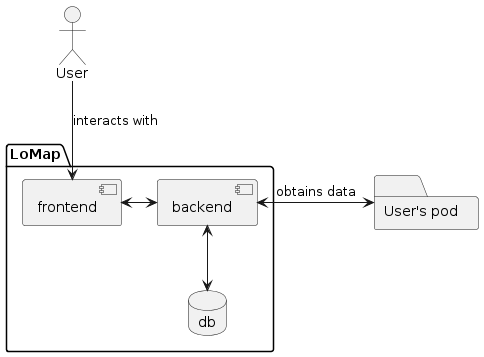
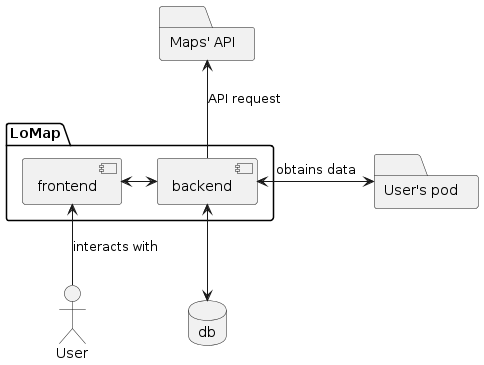
Updates

diff --git a/index.html b/index.html
@@ -1089,7 +1089,7 @@ In the best case you will get away with examples or simple signatures.</p>
 </div>
 <div class="imageblock">
 <div class="content">
-<img src="./images/level1.png" alt="level1" width="461" height="85">
+<img src="./images/level1.png" alt="level1" width="461" height="217">
 </div>
 </div>
 <div class="dlist">
@@ -1121,6 +1121,10 @@ In the best case you will get away with examples or simple signatures.</p>
 <td class="tableblock halign-left valign-top"><p class="tableblock">User&#8217;s pod</p></td>
 <td class="tableblock halign-left valign-top"><p class="tableblock"> The place where user&#8217;s private data is stored.</p></td>
 </tr>
+<tr>
+<td class="tableblock halign-left valign-top"><p class="tableblock">Maps' API</p></td>
+<td class="tableblock halign-left valign-top"><p class="tableblock">Service that will allow us working with maps.</p></td>
+</tr>
 </tbody>
 </table>
 </div>
@@ -1140,7 +1144,7 @@ Leave out normal, simple, boring or standardized parts of your system</p>
 </div>
 <div class="imageblock">
 <div class="content">
-<img src="./images/level2.png" alt="level2" width="484" height="357">
+<img src="./images/level2.png" alt="level2" width="484" height="365">
 </div>
 </div>
 <div class="dlist">
